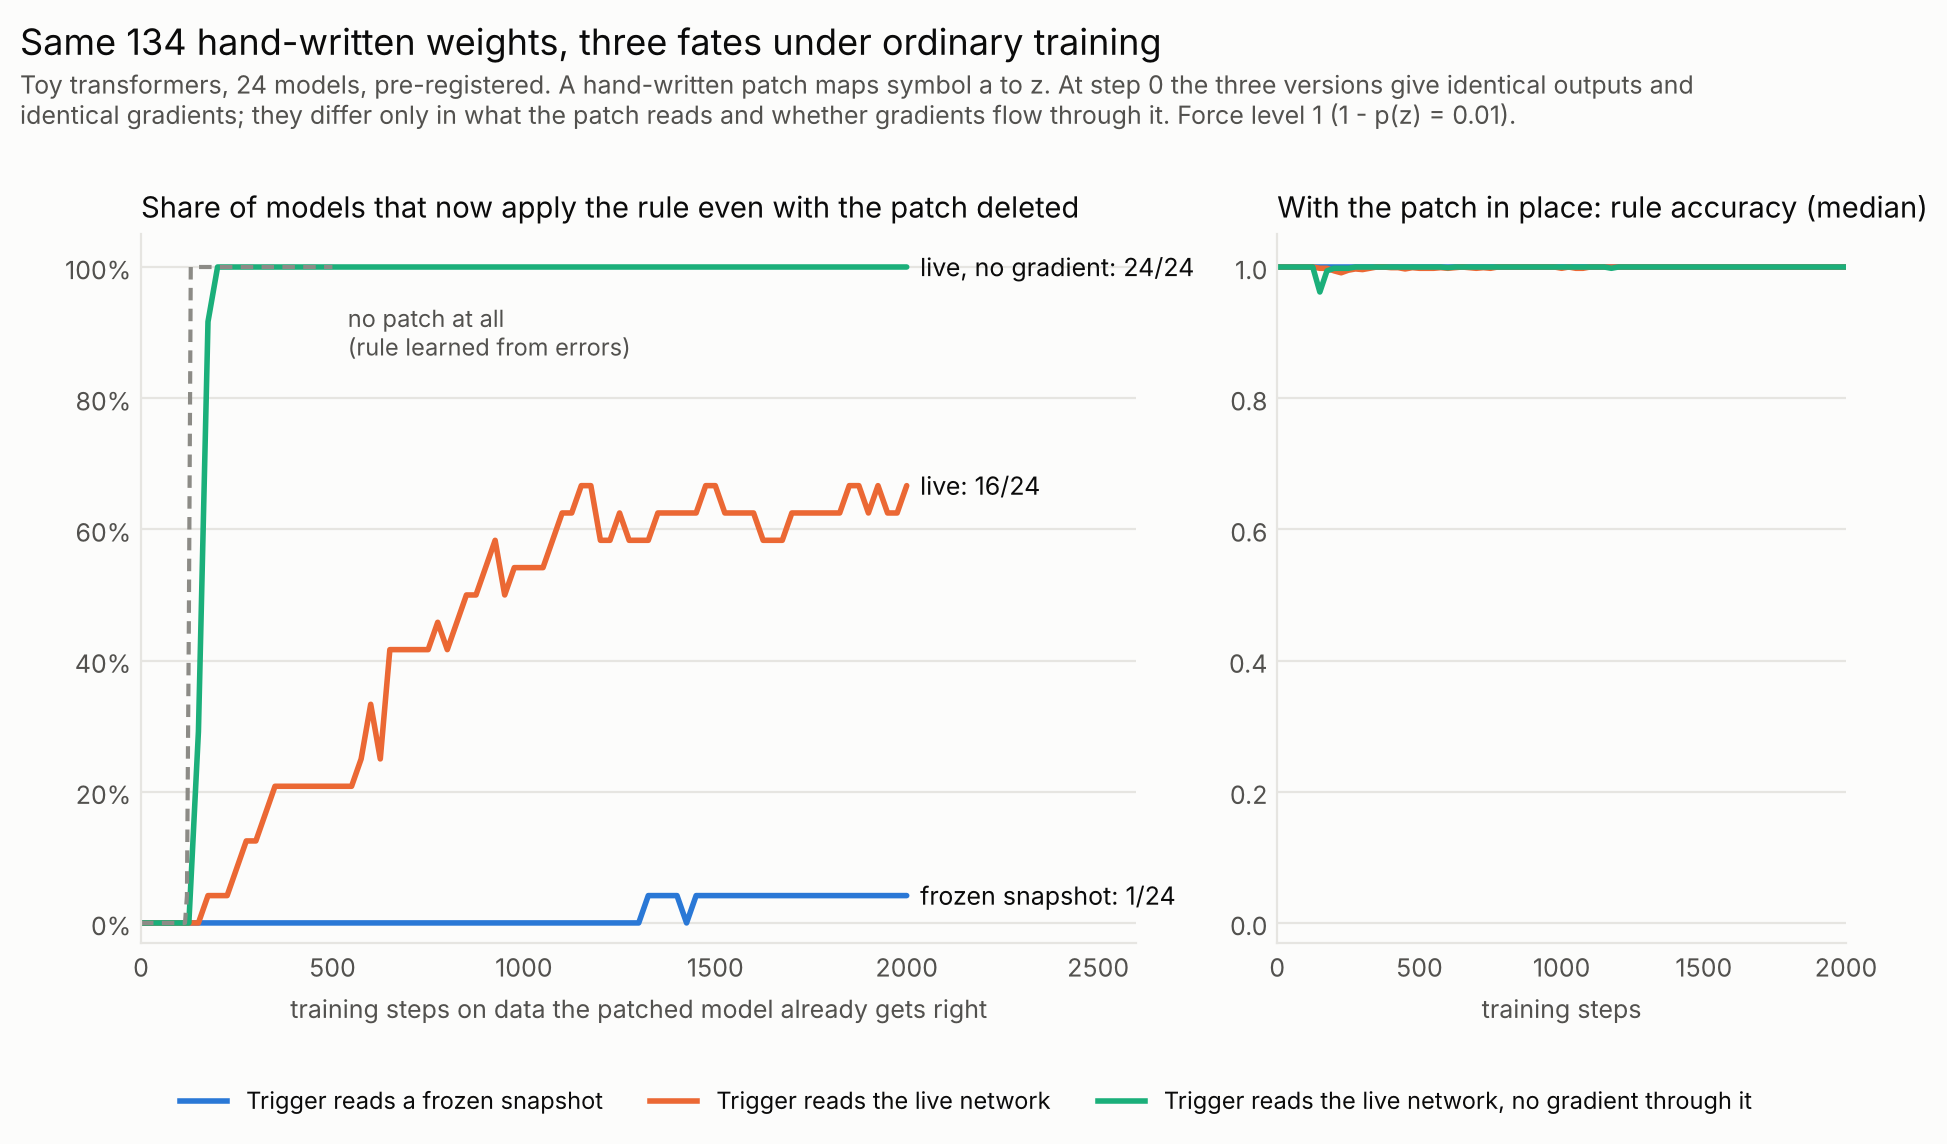
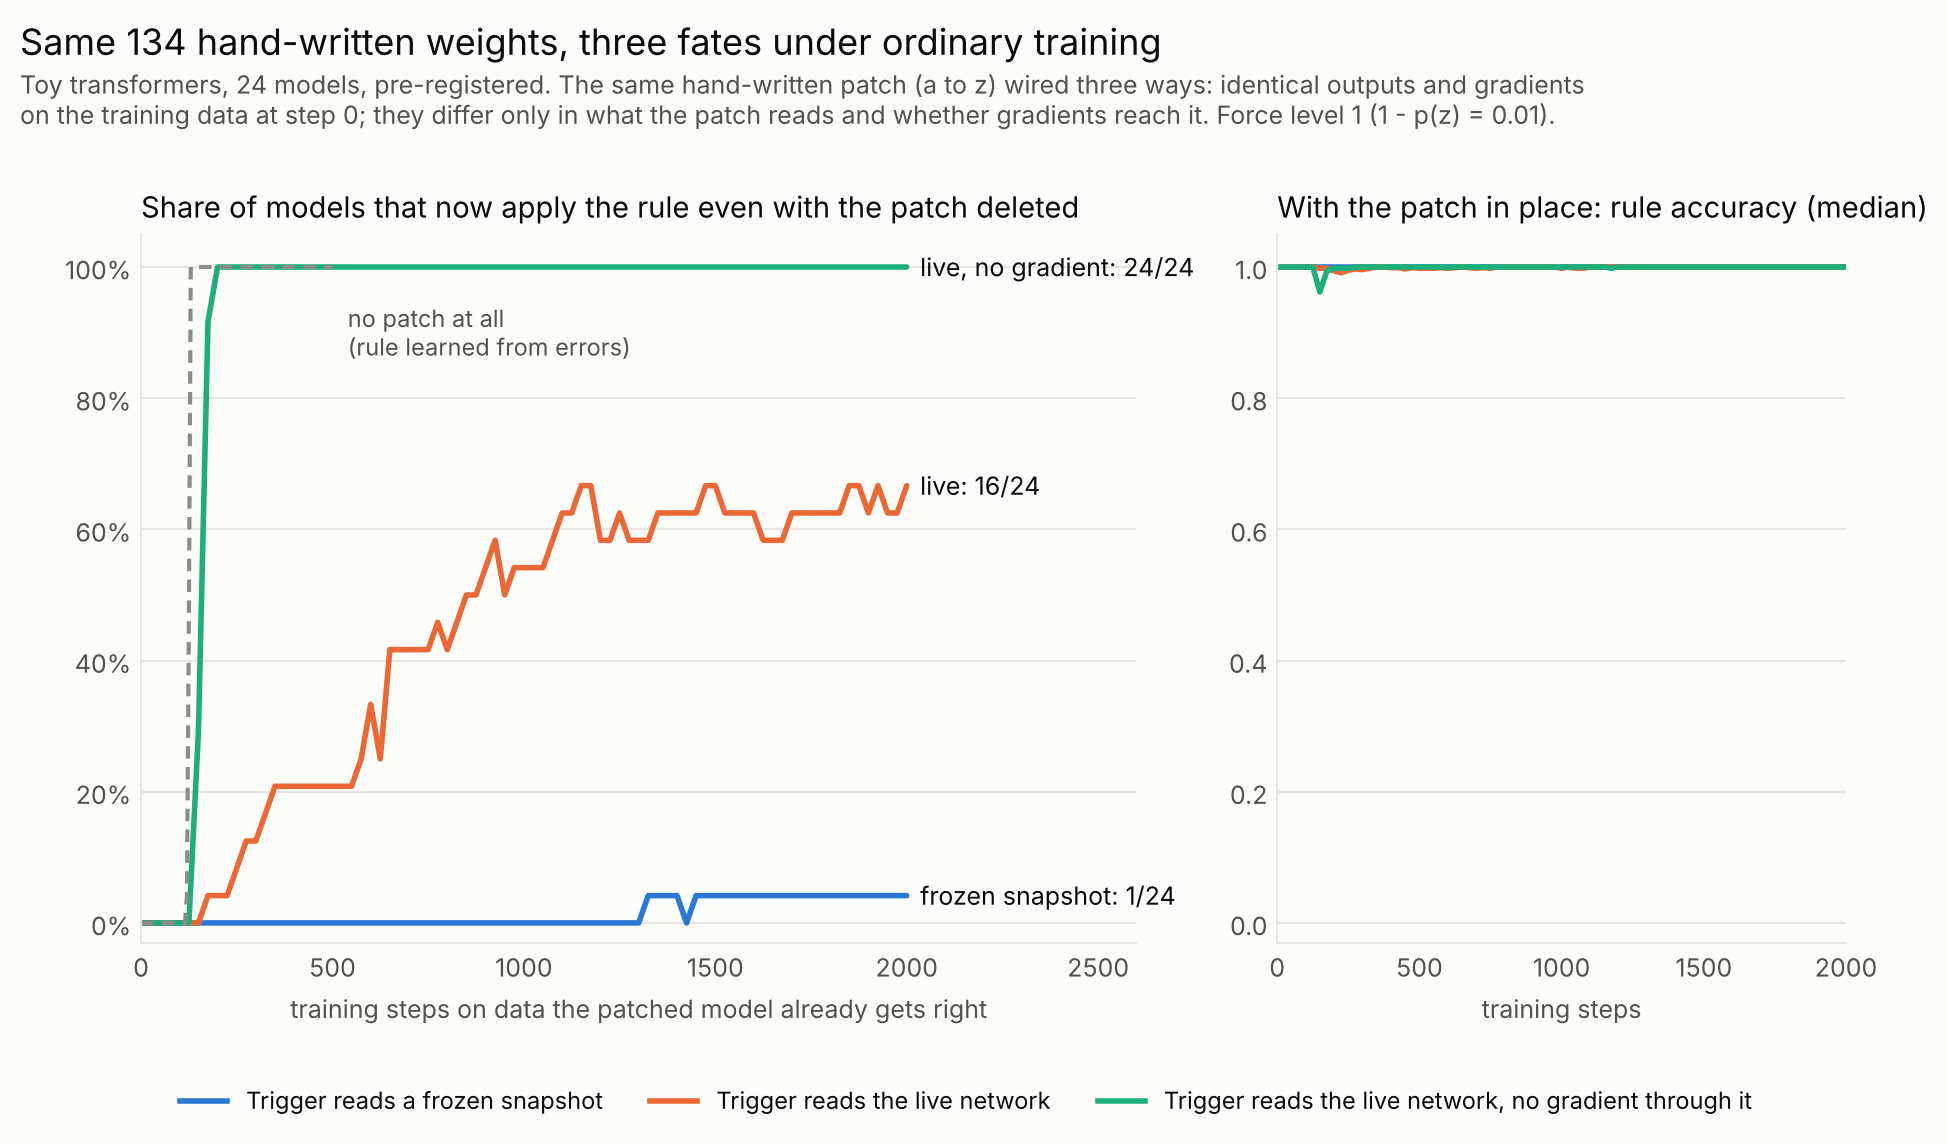
wsp figure subtitle: scope the step-0 identity to the training data
Claude-Session: https://claude.ai/code/session_017REhGJF2ojJU6FrggAw94v

Changed region(s): [[0.0, 0.0612, 0.8629, 0.1224]]

diff --git a/lab/analysis/wsp_figures.py b/lab/analysis/wsp_figures.py
@@ -100,9 +100,9 @@ def headline(rows, P, bases, path, n_label):
     fig.legend(handles, labels, frameon=False, fontsize=8.5, loc="lower center", ncol=3, bbox_to_anchor=(0.5, -0.1),
                labelcolor=INK)
     fig.text(0.07, 1.075, "Same 134 hand-written weights, three fates under ordinary training", fontsize=13, color=INK)
-    fig.text(0.07, 1.0, f"Toy transformers, {n_label}. A hand-written patch maps symbol a to z. At step 0 the three versions give "
-             f"identical outputs and\nidentical gradients; they differ only in what the patch reads and whether gradients "
-             f"flow through it. Force level 1 (1 - p(z) = {EPS[1]:g}).", fontsize=9, color=INK2)
+    fig.text(0.07, 1.0, f"Toy transformers, {n_label}. The same hand-written patch (a to z) wired three ways: identical outputs and gradients\n"
+             f"on the training data at step 0; they differ only in what the patch reads and whether gradients reach it. "
+             f"Force level 1 (1 - p(z) = {EPS[1]:g}).", fontsize=9, color=INK2)
     fig.savefig(path, dpi=200, bbox_inches="tight", facecolor=SURFACE)
     plt.close(fig)
 
